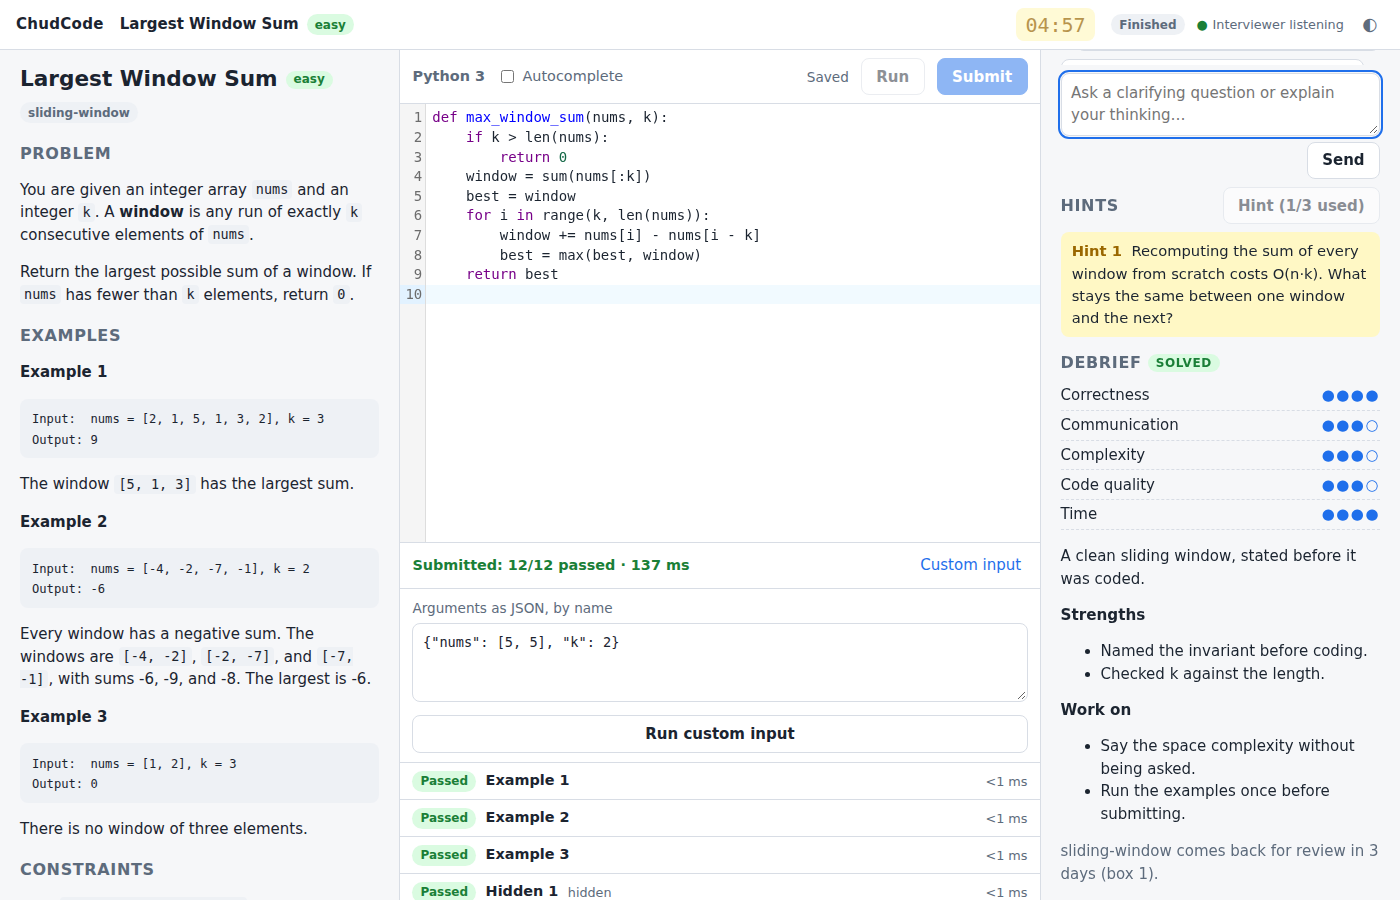
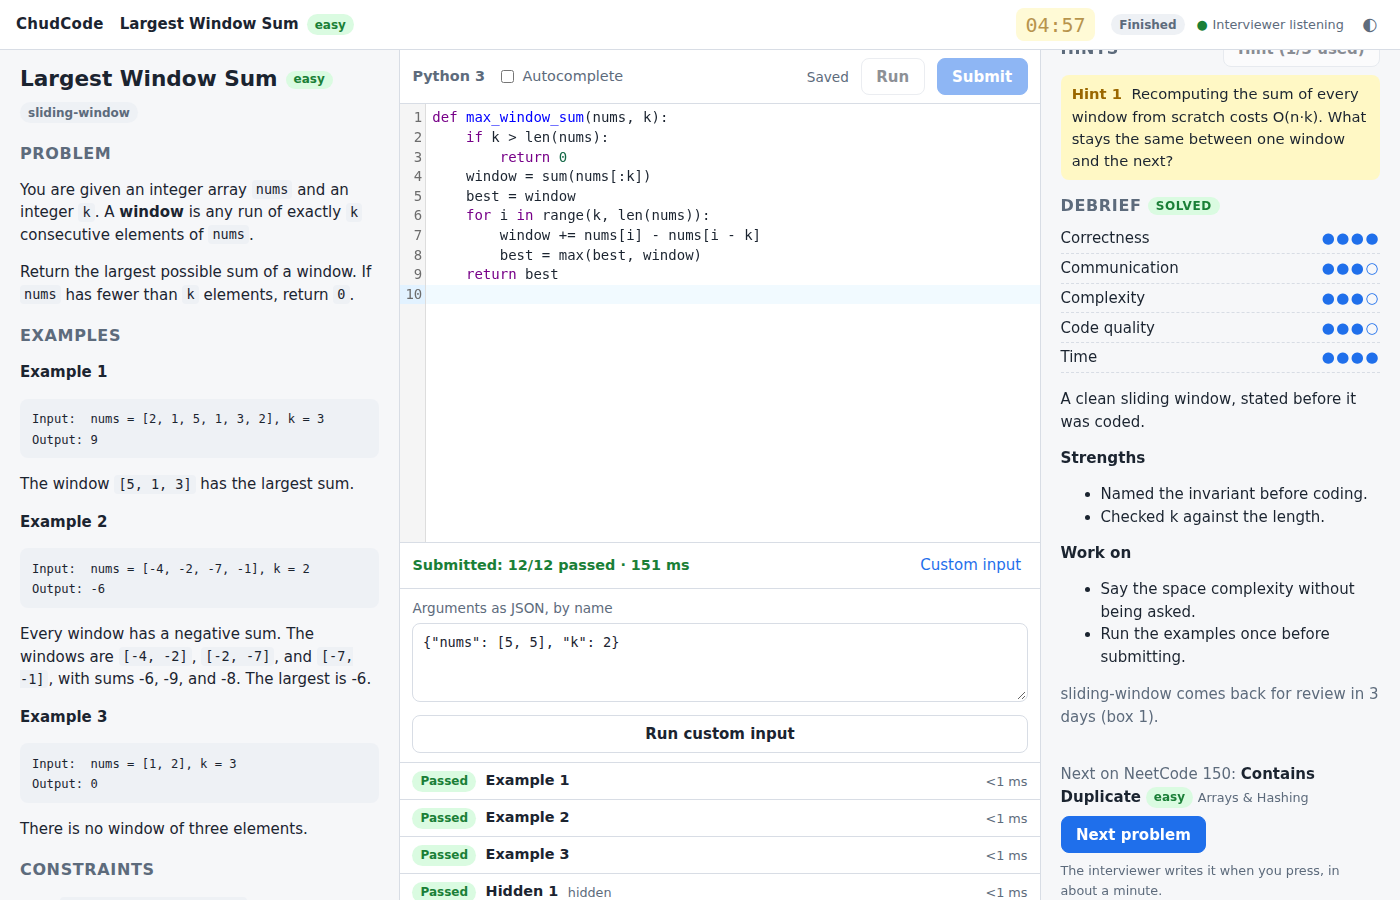
Keep the interviewer waiting before Start, and show the Next button in the README
An empty wait on a session nobody has started said it was in follow-ups and
suggested record_session. It now says the candidate has not pressed Start yet.
A live check of the Next button found it. The README and its screenshots now
show the button on the debrief and the dashboard.

Changed region(s): [[0.7371, 0.0311, 1.0, 0.9956]]

diff --git a/src/prompts.ts b/src/prompts.ts
@@ -749,11 +749,12 @@ export function nothingYetText(
     );
   } else {
     for (const session of active) lines.push(sessionLine(session, now));
-    const coding = active.some((s) => s.phase === "coding");
     lines.push(
-      coding
+      active.some((s) => s.phase === "coding")
         ? "The candidate is working. Call `wait_for_candidate` again. If several silent minutes have passed with no runs, one short check-in with `say_to_candidate` is fine."
-        : "The session is in follow-ups. If you asked a question, call `wait_for_candidate` again; otherwise ask one with `say_to_candidate` or call `record_session`.",
+        : active.some((s) => s.phase === "review")
+          ? "The session is in follow-ups. If you asked a question, call `wait_for_candidate` again; otherwise ask one with `say_to_candidate` or call `record_session`."
+          : "The candidate has not pressed Start yet. Call `wait_for_candidate` again; the clock starts when they do.",
     );
   }
   if (digest) lines.push(digest);

diff --git a/test/prompts.test.ts b/test/prompts.test.ts
@@ -372,6 +372,17 @@ describe("nothingYetText", () => {
     expect(nothingYetText(60, [], "")).toContain("No session is in progress");
   });
 
+  it("matches the advice to the phase, and never suggests scoring before Start", () => {
+    const base = session();
+    const at = (phase: Session["phase"]) => [{ ...base, phase }];
+    expect(nothingYetText(60, at("briefing"), "")).toContain(
+      "The candidate has not pressed Start yet.",
+    );
+    expect(nothingYetText(60, at("briefing"), "")).not.toContain("record_session");
+    expect(nothingYetText(60, at("coding"), "")).toContain("The candidate is working.");
+    expect(nothingYetText(60, at("review"), "")).toContain("in follow-ups");
+  });
+
   it("keeps the interviewer listening while a roadmap debrief is open", () => {
     const window = { roadmap: "grind75" as const, name: "Grind 75", leftMs: 61_000 };
     const out = nothingYetText(60, [], "", 0, window);

diff --git a/README.md b/README.md
@@ -32,7 +32,8 @@ Then, in Claude Code, say "give me a mock interview on sliding windows" or run
 `/chudcode:interview`. Your agent plays the interviewer; the page opens in your browser.
 `/chudcode:review` serves a fresh problem on the pattern you are most overdue to see
 again. `/chudcode:roadmap` takes you through NeetCode 150 in order, or Grind 75 if you
-name it: each step is an original problem in the shape of the next one on the list.
+name it: each step is an original problem in the shape of the next one on the list,
+and after each debrief a Next problem button takes you straight to the one after.
 `/chudcode:research <company>` finds what that company has been asking lately,
 so an interview for it has the right shape. `/chudcode:dashboard` opens the page with
 your review schedule, streak, and past sessions.
@@ -97,7 +98,9 @@ make sure the patterns you keep missing are the ones you see again.
   75 week by week. A topic or week opens once half of every one before it is solved.
   You never see the listed problem: each step is an original problem in its shape,
   and solving it checks the listed one off. Progress is derived from your sessions,
-  so a "like Two Sum" interview counts too.
+  so a "like Two Sum" interview counts too. After a roadmap debrief the interviewer
+  writes the next step ahead of time and stays for a while; the Next problem button
+  on the debrief or the dashboard opens it without a trip back to the terminal.
 - Company trends: the research skill reads recent interview-experience posts with
   the host's web tools and records each problem as a pattern, a role, a date, a
   source, and a short paraphrase of its shape, never a statement. Name the company
@@ -107,15 +110,15 @@ make sure the patterns you keep missing are the ones you see again.
 ## What it looks like
 
 After a passing submission and the follow-ups, the interviewer scores the session.
-The debrief lands on the page: five rubric scores, strengths, things to work on, and
-when the pattern comes back.
+The debrief lands on the page: five rubric scores, strengths, things to work on,
+when the pattern comes back, and, on a roadmap, the button for the next problem.
 
-![The page after the debrief: 12 of 12 cases passed, the rubric card with scores, strengths, and things to work on](docs/screenshots/session-debrief.png)
+![The page after the debrief: 12 of 12 cases passed, the rubric card with scores, strengths, and things to work on, and a Next problem button for Contains Duplicate on NeetCode 150](docs/screenshots/session-debrief.png)
 
 The dashboard shows every pattern's place in the review schedule, what is due, the
 streak, progress through both roadmaps, and past sessions.
 
-![The dashboard: streak and due counts, the pattern grid with Sliding Window in the three-day box, the NeetCode 150 topics with what each needs to open, and recent sessions](docs/screenshots/dashboard.png)
+![The dashboard: streak and due counts, the pattern grid with Sliding Window in the three-day box, the NeetCode 150 topics with what each needs to open, a Next problem button under each roadmap, and recent sessions](docs/screenshots/dashboard.png)
 
 The screenshots come from `npm run e2e:browser -- <dir>`, which drives the real page.
 How the pieces fit is in `docs/ARCHITECTURE.md`.
